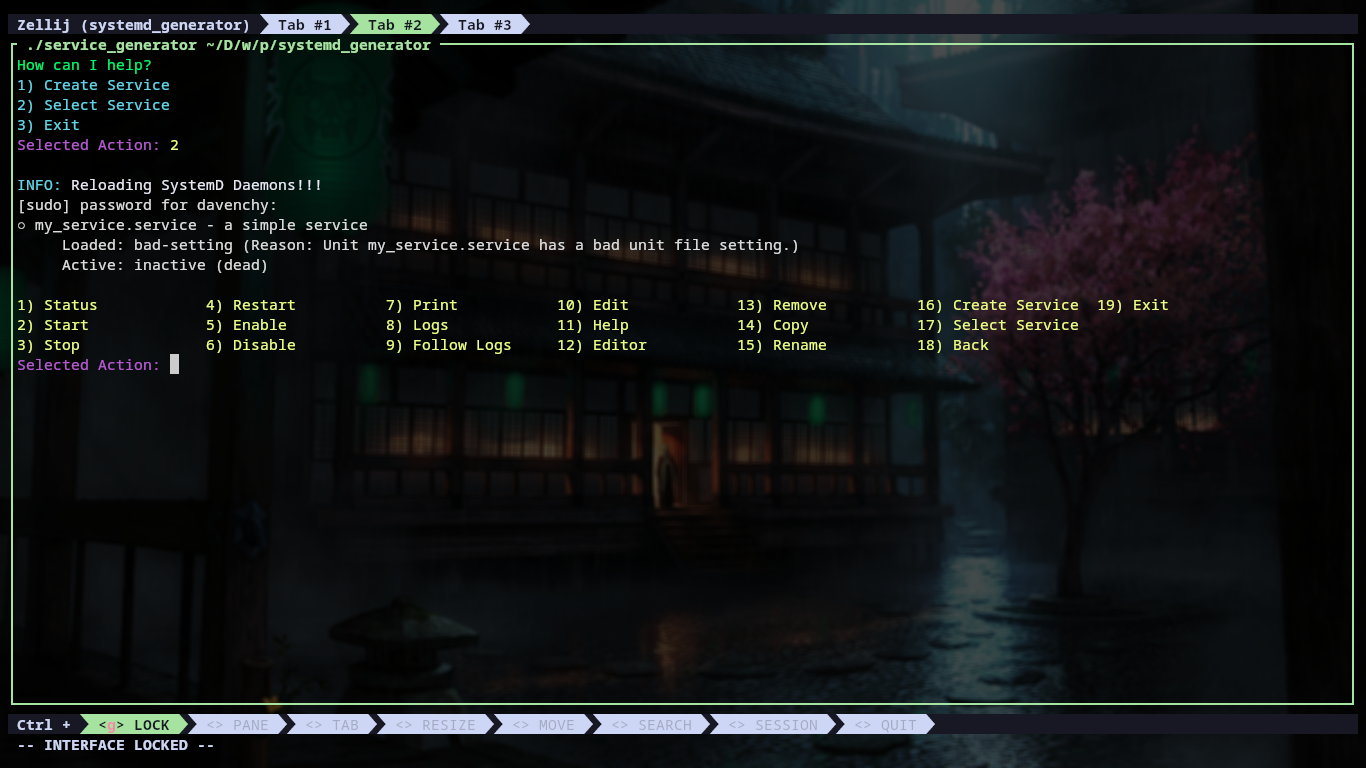
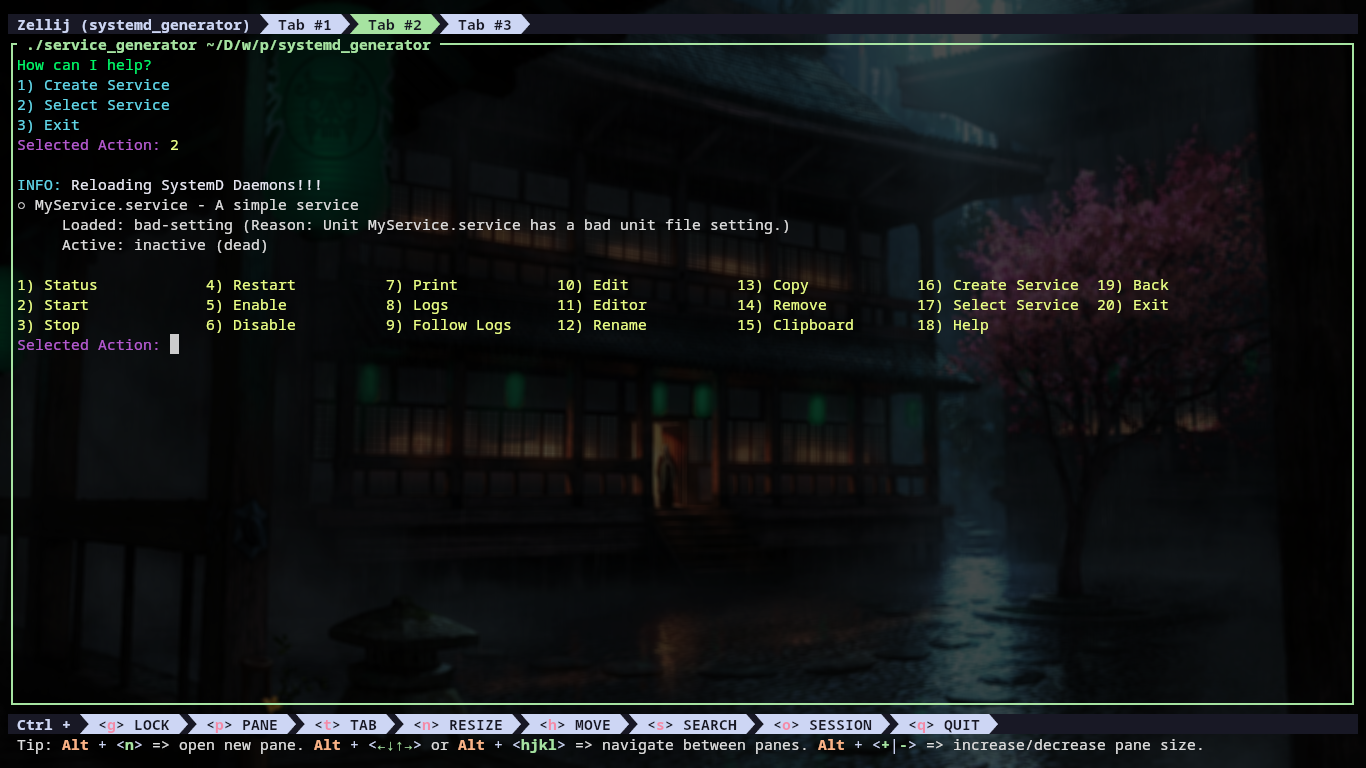
Update screenshots and readme

diff --git a/README.md b/README.md
@@ -33,3 +33,17 @@ The script has 3 modes:
 - Control a service
 
 ![](./screens/control_service.png)
+
+- Edit Service Mode
+
+![](./screens/edit_service.png)
+
+- Set manual directive `Service,ExecStart` to `my_binary`
+- Set the service working directory to the current location using option 5
+- Finally set the user to `davenchy` using option 6
+
+![](./screens/set_service_directives.png)
+
+- Save Service
+
+![](./screens/save_service.png)
